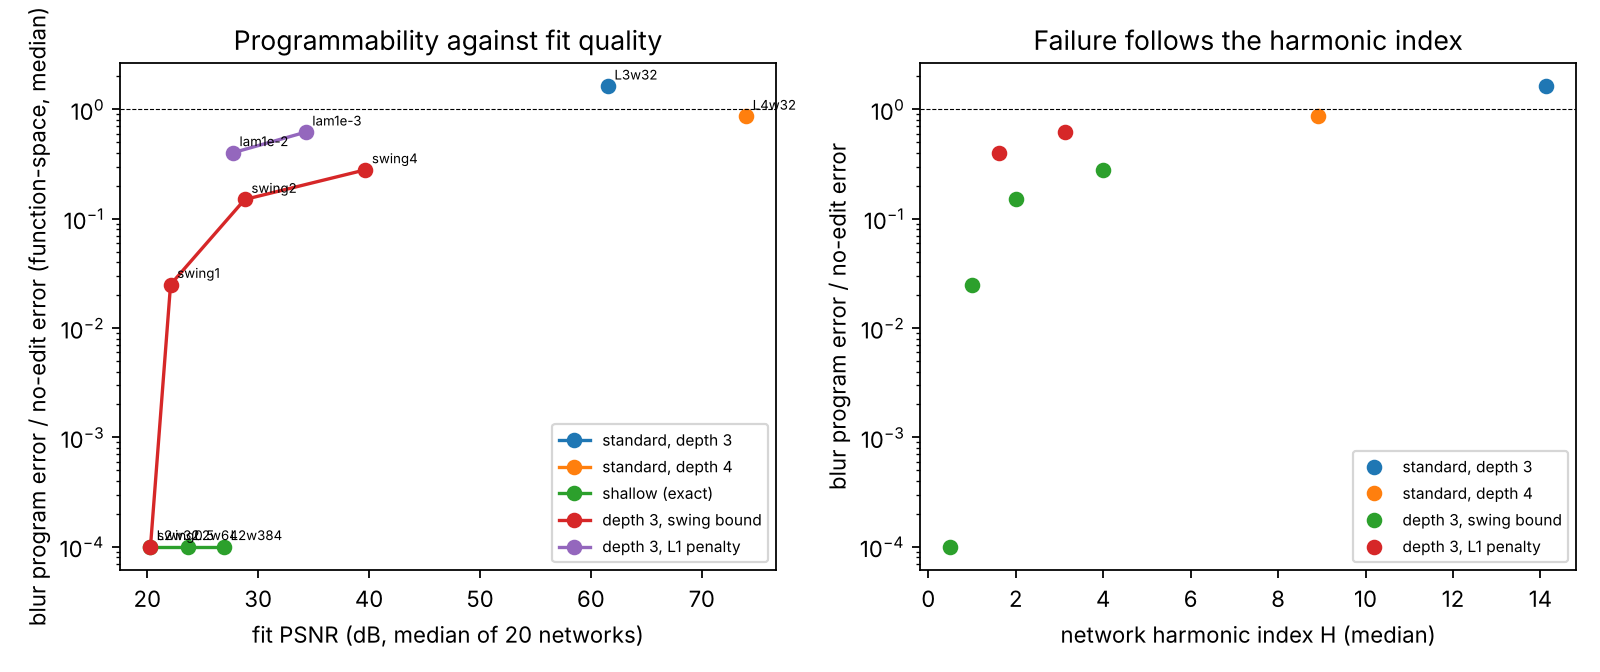
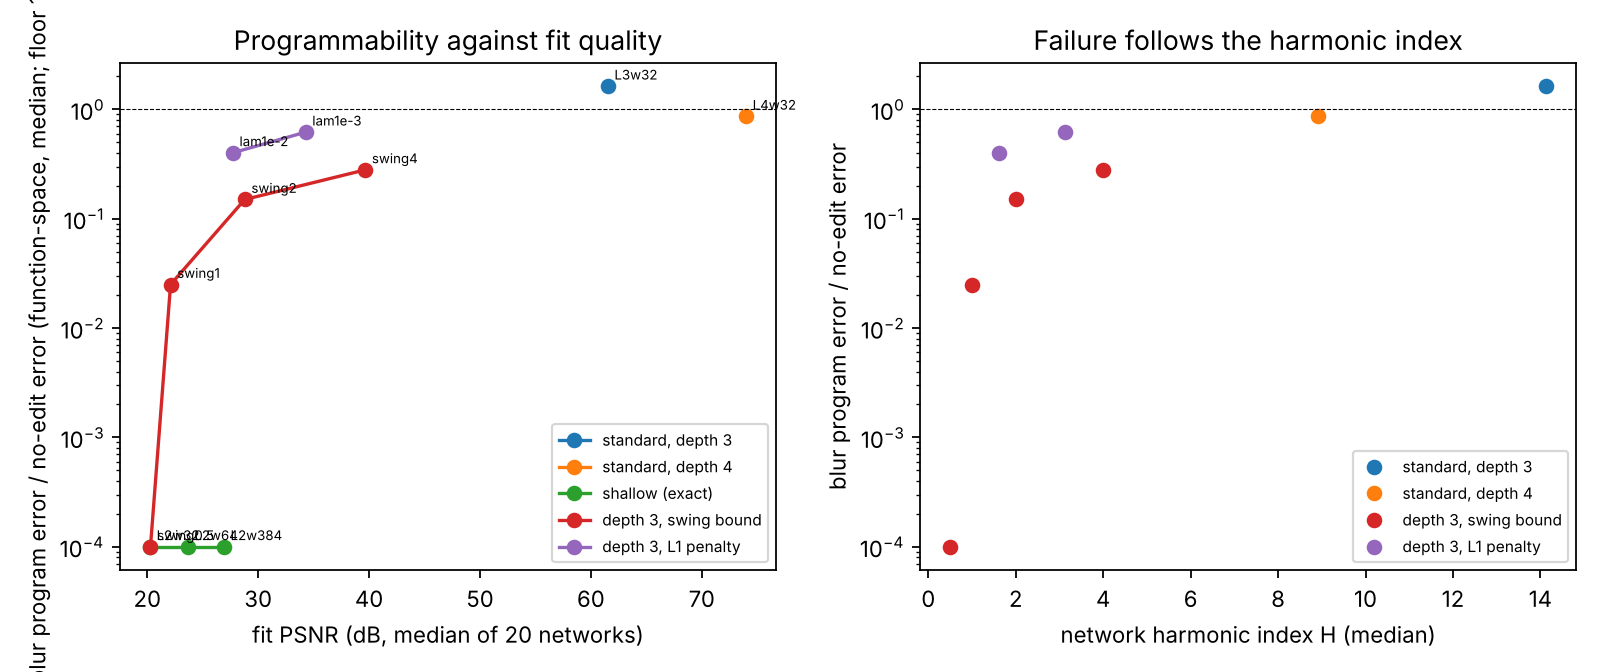
Trade-off figure: consistent series colours
Claude-Session: https://claude.ai/code/session_01F4LBdonZQimCyNFoo8wwSo

diff --git a/scripts/plot_tradeoff.py b/scripts/plot_tradeoff.py
@@ -12,6 +12,8 @@ matplotlib.use("Agg")
 import matplotlib.pyplot as plt
 import numpy as np
 
+COLORS = {"standard, depth 3": "C0", "standard, depth 4": "C1", "shallow (exact)": "C2",
+          "depth 3, swing bound": "C3", "depth 3, L1 penalty": "C4"}
 SERIES = {
     "standard, depth 3": [("L3w8", "mnist_d3_s8"), ("L3w16", "mnist_d3_s16"), ("L3w32", "mnist_s32")],
     "standard, depth 4": [("L4w16", "mnist_d4_s16"), ("L4w32", "mnist_d4_s32")],
@@ -55,14 +57,14 @@ def main():
         if not pts:
             continue
         pts.sort()
-        axes[0].plot([p[0] for p in pts], [p[1] for p in pts], "o-", label=name)
+        axes[0].plot([p[0] for p in pts], [p[1] for p in pts], "o-", label=name, color=COLORS[name])
         for p in pts:
             axes[0].annotate(p[3].replace("L3w32_", "").replace("mnist_", ""), (p[0], p[1]), fontsize=6, xytext=(3, 3), textcoords="offset points")
         if name != "shallow (exact)":
-            axes[1].plot([p[2] for p in pts], [p[1] for p in pts], "o", label=name)
+            axes[1].plot([p[2] for p in pts], [p[1] for p in pts], "o", label=name, color=COLORS[name])
     axes[0].set_yscale("log")
     axes[0].set_xlabel("fit PSNR (dB, median of 20 networks)")
-    axes[0].set_ylabel("blur program error / no-edit error (function-space, median)")
+    axes[0].set_ylabel("blur program error / no-edit error (function-space, median; floor 1e-4)")
     axes[0].axhline(1.0, color="k", lw=0.5, ls="--")
     axes[0].set_title("Programmability against fit quality")
     axes[0].legend(fontsize=7)
